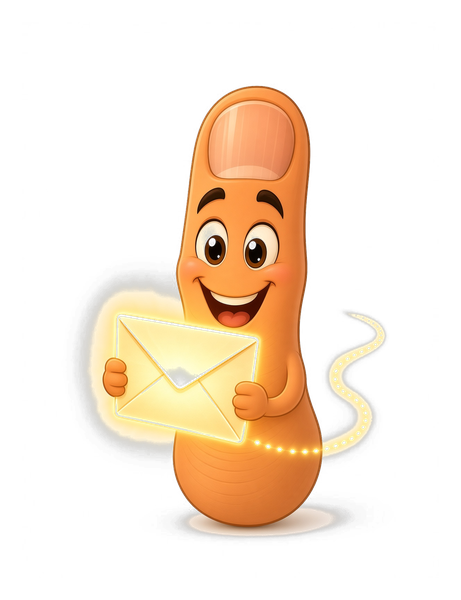
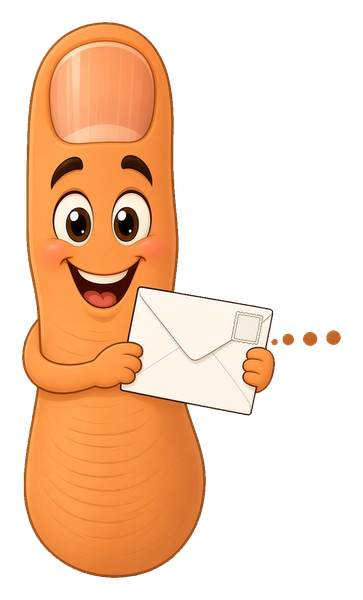
Add files via upload

diff --git a/hosting-basics.html b/hosting-basics.html
@@ -87,6 +87,16 @@
   .ghint{font-size:13.5px; color:var(--blue); margin-top:8px; display:none;}
   .ghint.show{display:block;}
   .gbtns{display:flex; gap:8px; flex-wrap:wrap; margin-top:12px;}
+  .tracktoggle{display:flex;gap:8px;margin:14px 0 10px;align-items:center;flex-wrap:wrap}
+  .tracktoggle .tlabel{font-family:var(--mono);font-size:11px;letter-spacing:.16em;text-transform:uppercase;color:var(--dim);margin-right:2px}
+  .ttab{font-family:var(--mono);font-size:12.5px;padding:7px 14px;border-radius:999px;border:1px solid var(--line);background:var(--card);color:var(--soft);cursor:pointer;}
+  .ttab.on.general{border-color:var(--blue);color:var(--blue);background:rgba(90,167,232,.1);font-weight:700;}
+  .ttab.on.trail{border-color:#c8a4f0;color:#c8a4f0;background:rgba(200,164,240,.12);font-weight:700;}
+  .trailbanner{font-family:var(--mono);font-size:11.5px;color:#c8a4f0;background:rgba(200,164,240,.08);border:1px solid rgba(200,164,240,.3);border-radius:8px;padding:7px 11px;margin:8px 0;display:none;}
+  .trailbanner.show{display:block;}
+  .gymcard.trailmode.active{border-color:#c8a4f0;}
+  .gymcard.trailmode.win{border-color:var(--green);}
+
 
   /* hero */
   .hero{display:flex; flex-direction:column; align-items:center; text-align:center; gap:10px;}
@@ -312,14 +322,18 @@
   .picker{display:flex;gap:8px;flex-wrap:wrap;margin:10px 0;}
   .chipbtn{font-family:var(--mono);font-size:12.5px;padding:8px 12px;border-radius:999px;border:1px solid var(--line);background:var(--card);color:var(--soft);cursor:pointer;}
   .chipbtn.on{border-color:var(--amber);color:var(--amber);}
-  .mascotspot{text-align:center;margin:4px 0 0;}
-  .mascotspot img{height:150px;width:auto;filter:drop-shadow(0 8px 18px rgba(0,0,0,.4));}
-  .tipbox{display:flex;gap:12px;align-items:flex-start;background:var(--card);border:1px solid var(--line);border-left:3px solid var(--amber);border-radius:0 10px 10px 0;padding:12px 14px;margin:14px 0;}
-  .tipbox img{height:64px;width:auto;flex:0 0 auto;}
-  .tipbox.light{background:#f4f1ea;border-left-color:#d8a24a;}
-  .tipbox.light .tt,.tipbox.light .tp{color:#2a2620;}
-  .tipbox .tt{font-weight:700;color:var(--amber);font-size:14px;}
-  .tipbox .tp{margin:3px 0 0;font-size:14px;color:var(--soft);line-height:1.5;}
+  /* big hero-spotlight mascot inside a section (light panel so glow/phone shadows vanish) */
+  .mascotspot{text-align:center;margin:6px 0 2px;}
+  .mascotspot img{height:230px;width:auto;filter:drop-shadow(0 10px 22px rgba(0,0,0,.5));}
+  /* tip boxes: mascot is BIG and pokes in at an angle, overlapping the card edge */
+  .tipbox{position:relative;background:var(--card);border:1px solid var(--line);border-left:3px solid var(--amber);border-radius:0 12px 12px 0;padding:16px 16px 16px 118px;margin:22px 0;min-height:96px;}
+  .tipbox .poke{position:absolute;left:-14px;bottom:-8px;height:150px;width:auto;transform:rotate(-8deg);filter:drop-shadow(0 8px 16px rgba(0,0,0,.45));pointer-events:none;}
+  .tipbox.right{border-left:none;border-right:3px solid var(--amber);border-radius:12px 0 0 12px;padding:16px 118px 16px 16px;}
+  .tipbox.right .poke{left:auto;right:-14px;transform:rotate(8deg);}
+  .tipbox.big{padding-left:150px;min-height:130px;}
+  .tipbox.big .poke{height:200px;left:-22px;}
+  .tipbox .tt{font-weight:700;color:var(--amber);font-size:15px;}
+  .tipbox .tp{margin:4px 0 0;font-size:14.5px;color:var(--soft);line-height:1.55;}
   .missions{margin:14px 0;}
   .mission{display:flex;gap:10px;align-items:flex-start;background:var(--card);border:1px solid var(--line);border-radius:10px;padding:12px;margin:8px 0;}
   .mission .mx{flex:0 0 auto;width:22px;height:22px;border-radius:50%;border:2px solid var(--line);display:flex;align-items:center;justify-content:center;font-size:13px;color:var(--dim);margin-top:1px;}
@@ -344,7 +358,7 @@
     <h1>Ship It</h1>
     <p class="subtitle">How a file on your phone becomes a web address anyone can open.</p>
   </div>
-  <button class="vbadge" id="vbadge" type="button">v0.1</button>
+  <button class="vbadge" id="vbadge" type="button">v0.6</button>
 </header>
 
 <nav>
@@ -394,9 +408,9 @@
     <div id="repoUrls"></div>
   </div>
 
-  <div class="tipbox">
-    <img src="thumb-tip.png" alt="">
-    <div><div class="tt">The address is built from the name</div><p class="tp">A file called <code>about.html</code> in the repo root becomes <code>&hellip;/about.html</code>. The name you give the file IS part of the address. Rename the file, the address changes, and old links break.</p></div>
+  <div class="tipbox big">
+    <img class="poke" src="thumb-tip.png" alt="">
+    <div class="tt">The address is built from the name</div><p class="tp">A file called <code>about.html</code> in the repo root becomes <code>&hellip;/about.html</code>. The name you give the file IS part of the address. Rename the file, the address changes, and old links break.</p>
   </div>
 </section>
 
@@ -446,15 +460,16 @@
     </div>
   </div>
 
-  <div class="tipbox">
-    <img src="thumb-oops.png" alt="">
-    <div><div class="tt">The zip trap you hit</div><p class="tp">GitHub's web uploader does not unpack a zip. It just stores the zip as one file. To get a folder up, either upload the loose files into a folder, or go flat and keep everything in the root. Flat is the simplest on a phone.</p></div>
+  <div class="tipbox right">
+    <img class="poke" src="thumb-oops.png" alt="">
+    <div class="tt">The zip trap you hit</div><p class="tp">GitHub's web uploader does not unpack a zip. It just stores the zip as one file. To get a folder up, either upload the loose files into a folder, or go flat and keep everything in the root. Flat is the simplest on a phone.</p>
   </div>
 </section>
 
 <section id="trap">
   <p class="eyebrow">the phone trap</p>
   <h2>Opening from Downloads is not the same as opening from the web</h2>
+  <div class="mascotspot"><img src="thumb-on-phone.png" alt="mascot standing on a phone"></div>
   <p>Here's the one that fools everyone on a phone. When you open your HTML file straight from your Downloads folder, the address bar shows something like <code>content://</code> or <code>file://</code>. That is <b>not the web</b>. It's your phone handing you the raw file off local storage.</p>
   <p>Things that quietly break in that mode: saved progress vanishes between opens, images by relative name may not load, and anything that needs a real web address (like a service worker) just won't run. Then you upload it, open the real <code>https://</code> address, and suddenly it all works. The file was never broken. The way you opened it was.</p>
 
@@ -470,9 +485,9 @@
     </div>
   </div>
 
-  <div class="tipbox light">
-    <img src="thumb-aha.png" alt="">
-    <div><div class="tt">The fix is always the same</div><p class="tp">If something works in Downloads but not once uploaded, or the reverse, check the address bar first. If it doesn't start with <code>https://</code>, you're not testing the real thing. Open the Pages URL instead.</p></div>
+  <div class="tipbox big">
+    <img class="poke" src="thumb-aha.png" alt="">
+    <div class="tt">The fix is always the same</div><p class="tp">If something works in Downloads but not once uploaded, or the reverse, check the address bar first. If it doesn't start with <code>https://</code>, you're not testing the real thing. Open the Pages URL instead.</p>
   </div>
 </section>
 
@@ -487,6 +502,12 @@
   <p class="eyebrow">the gym</p>
   <h2>Practice: will this address work?</h2>
   <p class="small soft">Randomized drills. You're shown a repo layout and the code's path, and you call whether the browser finds the file or gets a 404. Hints cost nothing but pride; skipping resets your streak.</p>
+  <div class="tracktoggle">
+    <span class="tlabel">practice</span>
+    <button class="ttab general on" id="trackGeneral" type="button">General</button>
+    <button class="ttab trail" id="trackTrail" type="button">The Trail</button>
+  </div>
+  <div class="trailbanner" id="trailBanner">The Trail: real cases from Mot's one-thumb-on-a-phone builds. Same rules, actual stakes.</div>
   <div class="gym">
     <div class="gymstats"><span>reps<b id="repN">0</b></span><span>streak<b id="strN">0</b></span><span>best<b id="bestN">0</b></span></div>
     <div class="gymtabs" id="gymTabs"></div>
@@ -522,7 +543,7 @@
 
 <script>
 "use strict";
-var VERSION = "v0.1 \u00B7 Aug 25";
+var VERSION = "v0.6 \u00B7 Aug 26";
 var STORE_KEY = "hosting101_v1";
 
 /* ---------- guarded storage ---------- */
@@ -800,7 +821,31 @@ function makeDrill(level){
   return { story: story, loads: loads, hint: hint };
 }
 
-var gym = { level:-1, drill:null, answered:false };
+
+/* ---------- TRAIL drills: real cases from Mot's actual builds ---------- */
+var TRAIL_CASES = [
+  { story:"The mascot upload. Your code says <code>img/thumb-git.png</code> but you uploaded the PNGs loose to the repo <b>root</b> (no img folder, because the zip wouldn't unpack). Does the image load?",
+    loads:false, hint:"The file is at the root (thumb-git.png) but the code asks for img/thumb-git.png. No img folder exists, so 404. The fix you used: change the code to the bare name." },
+  { story:"After the fix. You rewrote index.html to point at <code>thumb-git.png</code> (bare) and the PNGs sit in the repo root. Does it load?",
+    loads:true, hint:"Code and file agree: both root, bare name. Loads. This is the flat layout you shipped." },
+  { story:"The 404 that started it all. You opened <code>motbuchanan.github.io/reveal</code> with no trailing slash and no index.html yet (the hub was named course.html). Front door?",
+    loads:false, hint:"No index.html at the root means the bare address has no front door. You fixed it by renaming course.html to index.html." },
+  { story:"The rename fix. Hub is now <code>index.html</code> at the repo root. Someone visits <code>motbuchanan.github.io/reveal/</code>. Loads?",
+    loads:true, hint:"index.html at the root IS the front door. The bare address serves it. This is why the hub is index.html, not hub.html." },
+  { story:"The content:// trap on Garrett's iPad. You opened the game shelf HTML straight from Downloads to test. Address bar shows <code>content://</code>. Does saved progress persist between opens?",
+    loads:false, hint:"content:// is local storage, not the web. Progress may not persist and the service worker won't run. Open the https:// Pages URL to really test." },
+  { story:"measureup/ inside the gameshelf repo. The game lives in a subfolder <code>measureup/</code> with its own index.html and all-relative paths. Someone visits <code>&hellip;/gameshelf/measureup/</code>. Loads?",
+    loads:true, hint:"A subfolder with its own index.html serves at that subfolder's bare address. This is the folder-in-repo pattern you now use for self-contained apps." },
+  { story:"The zip you tried to upload. You zipped index.html + an img folder and uploaded the .zip to GitHub web. Do the images appear on the site?",
+    loads:false, hint:"GitHub web upload stores the zip as one file, it does not unpack it. The images are trapped inside the zip. You have to upload loose files." },
+  { story:"Reframe deployed as a subfolder. Self-contained app, all-relative paths, its own scoped sw.js, dropped into an existing repo as its own folder. Visiting its folder address. Loads?",
+    loads:true, hint:"Self-contained + all-relative paths + own sw.js = safe as a folder-in-repo. This is the pattern that works for your single-file apps." }
+];
+function makeTrailDrill(){
+  return TRAIL_CASES[Math.floor(Math.random()*TRAIL_CASES.length)];
+}
+
+var gym = { level:-1, drill:null, answered:false, track:"general" };
 var GYM_LEVELS = [
   { lv:0, name:"root files" },
   { lv:1, name:"folders" },
@@ -826,10 +871,14 @@ function renderGymTabs(){
   });
 }
 function gymStart(){
-  var lv = gym.level === -1 ? Math.floor(Math.random()*4) : gym.level;
-  gym.drill = makeDrill(lv);
+  if(gym.track === "trail"){
+    gym.drill = makeTrailDrill();
+  } else {
+    var lv = gym.level === -1 ? Math.floor(Math.random()*4) : gym.level;
+    gym.drill = makeDrill(lv);
+  }
   gym.answered = false;
-  var card = $("gymCard"); card.className = "gymcard active";
+  var card = $("gymCard"); card.className = "gymcard active" + (gym.track === "trail" ? " trailmode" : "");
   $("gGoal").innerHTML = "Will this load, or 404?";
   $("gymBoard").innerHTML = "<div class='note' style='margin-top:10px'>" + gym.drill.story + "</div>";
   $("gHint").className = "ghint"; $("gHint").innerHTML = "";
@@ -848,12 +897,12 @@ function gymAnswer(saidLoads){
     s.gym.streak = (s.gym.streak||0) + 1;
     if(s.gym.streak > (s.gym.best||0)) s.gym.best = s.gym.streak;
     saveState(s);
-    card.className = "gymcard win";
+    card.className = "gymcard win" + (gym.track === "trail" ? " trailmode" : "");
     $("gGoal").innerHTML = "Correct. " + (gym.drill.loads ? "It loads." : "404.");
     markMission("gym");
   } else {
     s.gym.streak = 0; saveState(s);
-    card.className = "gymcard";
+    card.className = "gymcard" + (gym.track === "trail" ? " trailmode" : "");
     $("gGoal").innerHTML = "Not quite. " + (gym.drill.loads ? "It actually loads." : "It's actually a 404.");
   }
   $("gHint").className = "ghint show"; $("gHint").innerHTML = gym.drill.hint;
@@ -871,8 +920,27 @@ function gymSkip(){
   $("gHintBtn").style.display = "none"; $("gSkip").style.display = "none";
   $("gStart").style.display = ""; $("gStart").textContent = "Next drill";
 }
+function setTrack(t){
+  gym.track = t;
+  var g = $("trackGeneral"), tr = $("trackTrail"), tabs = $("gymTabs"), ban = $("trailBanner");
+  if(g) g.classList.toggle("on", t === "general");
+  if(tr) tr.classList.toggle("on", t === "trail");
+  if(tabs) tabs.style.display = (t === "trail") ? "none" : "";
+  if(ban) ban.className = "trailbanner" + (t === "trail" ? " show" : "");
+  // reset the card to a fresh start prompt
+  var card = $("gymCard"); if(card){ card.className = "gymcard"; }
+  if($("gGoal")) $("gGoal").innerHTML = (t === "trail")
+    ? "Real cases from the build. Tap <b>Start drill</b>."
+    : "Pick a level (or Surprise me) and tap <b>Start drill</b>.";
+  if($("gymBoard")) $("gymBoard").innerHTML = "";
+  if($("gHint")){ $("gHint").className = "ghint"; $("gHint").innerHTML = ""; }
+  ["gAnswerYes","gAnswerNo","gHintBtn","gSkip"].forEach(function(id){ if($(id)) $(id).style.display = "none"; });
+  if($("gStart")){ $("gStart").style.display = ""; $("gStart").textContent = "Start drill"; }
+}
 function initGym(){
   renderGymTabs(); gymStatsRender();
+  if($("trackGeneral")) $("trackGeneral").addEventListener("click", function(){ setTrack("general"); });
+  if($("trackTrail")) $("trackTrail").addEventListener("click", function(){ setTrack("trail"); });
   if($("gStart")) $("gStart").addEventListener("click", gymStart);
   if($("gAnswerYes")) $("gAnswerYes").addEventListener("click", function(){ gymAnswer(true); });
   if($("gAnswerNo")) $("gAnswerNo").addEventListener("click", function(){ gymAnswer(false); });

diff --git a/index.html b/index.html
@@ -79,13 +79,13 @@ footer{color:#5b6272;font-size:12.5px;text-align:center;margin:30px 0 10px;line-
 <div class="hero">
   <div class="topline">
     <div class="herowrap">
-      <img class="heromascot" src="thumb-thumbsup.png" alt="All Thumbs mascot">
+      <img class="heromascot" src="thumb-phone-hero.png" alt="All Thumbs mascot holding a phone">
       <div class="herotitle">
         <div class="kick">build it on a phone</div>
         <h1>All Thumbs</h1>
       </div>
     </div>
-    <button id="vbadge" aria-label="version">v1.11</button>
+    <button id="vbadge" aria-label="version">v1.12</button>
   </div>
   <p class="sub herolede" style="font-size:18px">I build almost everything on a phone. This is the course I built to teach myself what was actually happening under it, one small explainer at a time.</p>
   <p>Each part is a standalone interactive explainer with real working sandboxes, missions, a practice gym with randomized drills, and a five-question quiz. Do them in order for the full story: first how anything reaches your screen, then the toolbox people build it all with.</p>
@@ -121,7 +121,7 @@ footer{color:#5b6272;font-size:12.5px;text-align:center;margin:30px 0 10px;line-
 <div id="toast" role="status"></div>
 <script>
 "use strict";
-var VERSION = "v1.11 · Aug 25";
+var VERSION = "v1.12 · Aug 26";
 
 /* pure helpers (testable) */
 function countDone(state){

diff --git a/ROADMAP.md b/ROADMAP.md
@@ -1,5 +1,25 @@
 # All Thumbs — course roadmap and state
 
+## v1.13 (Aug 26 2026) - shadow-free mascot refresh, light-panel workaround REMOVED
+
+- Root cause fixed at the source: the only mascots that ever fought the cutout were the ones with drop shadows, reflections, or soft glows. Regenerated all of those SHADOW-FREE (hard-edge effects, no ground shadow/reflection, plain white bg) so they now cut clean to transparent like the rest.
+- Refreshed images (replace old): thumb-aha (hard-edge bulb), thumb-nice (hard-edge sparkles), thumb-internet (now a proper envelope + stamp + dot trail), thumb-on-phone, thumb-beside-phone, thumb-phone-hero.
+- NEW HUB HERO locked: thumb-phone-hero = the "hero-b" holding-phone pose. The alternate framing is saved as thumb-phone-hero-a (available spare).
+- LIGHT-PANEL SPECIAL CASE ELIMINATED. No more white panels, no -light.jpg files. Every mascot is transparent-on-dark everywhere: big centered spotlights (~230px, drop-shadow) for section hero art, and big angled poke-in (rotate ~8deg, overlap card edge, vary side/size) for tip boxes. This is the single locked mascot treatment for ALL chapters going forward.
+- Chapter 7 (hosting-basics.html) bumped to v0.6: all light-panel markup/CSS stripped, mascots back to transparent poke-in on dark. Two-track General/Trail practice from v1.12 unchanged.
+- See mascot-gallery.md for the current running image list.
+
+
+## v1.12 (Aug 26 2026) - two-track practice system + phone hero + 3 new images
+
+- BIG structural decision (locked): every section teaches ONCE (shared explanation), then practice/examples FORK into two color-coded tracks. GENERAL (blue) is the default = a complete standalone course anyone can pass and go deploy their own work. THE TRAIL (purple) = the same concept anchored to Mot's real one-thumb-on-a-phone builds, real cases + stakes. Toggle available per section; general shows first, trail is the deeper layer.
+- Chapter 7 is the TEMPLATE for this. Its gym now has a General/Trail toggle. General = the 4-level "will it load or 404?" drills. Trail = 8 real cases from Mot's actual builds (the mascot img/ vs root upload, the course.html->index.html 404 rename, the zip-wont-unpack trap, measureup/ folder-in-repo, Reframe subfolder, the content:// iPad test). Trail hides the level tabs and shows a purple banner.
+- Pattern to carry back through chapters 1-6 on their rebuild pass: shared teaching, then general-vs-trail practice fork, color-coded.
+- NEW HUB HERO: thumb-phone-hero (mascot holding a phone with the aperture logo) replaces thumbsup. Matches the build-on-a-phone angle. Hub v1.12.
+- 3 new phone images processed and added to the gallery: thumb-phone-hero (hero), thumb-on-phone, thumb-beside-phone. See mascot-gallery.md for the full running list Claude places from.
+- Chapter 7 bumped to v0.2.
+
+
 ## v1.11 (Aug 25 2026) - Chapter 7 Ship It (Hosting) + pop-ins placed
 
 - NEW chapter: hosting-basics.html "Ship It" (storage key hosting101_v1, state {m,quizBest,gym}). Teaches: what a host is, the repo, index.html as front door, root-vs-folder paths (the exact thing that broke the mascot upload), and the content:// / file:// phone trap as a first-class lesson. Has a live hosting engine (servePath/wouldLoad/makeDrill, module-exported for tests), 4 interactive sandboxes (repo+publish, front door, root-vs-folder, phone-trap), 6 missions, a "will this address load or 404?" gym with 4 levels, and a 5-question quiz. Footer links back to index.html.
